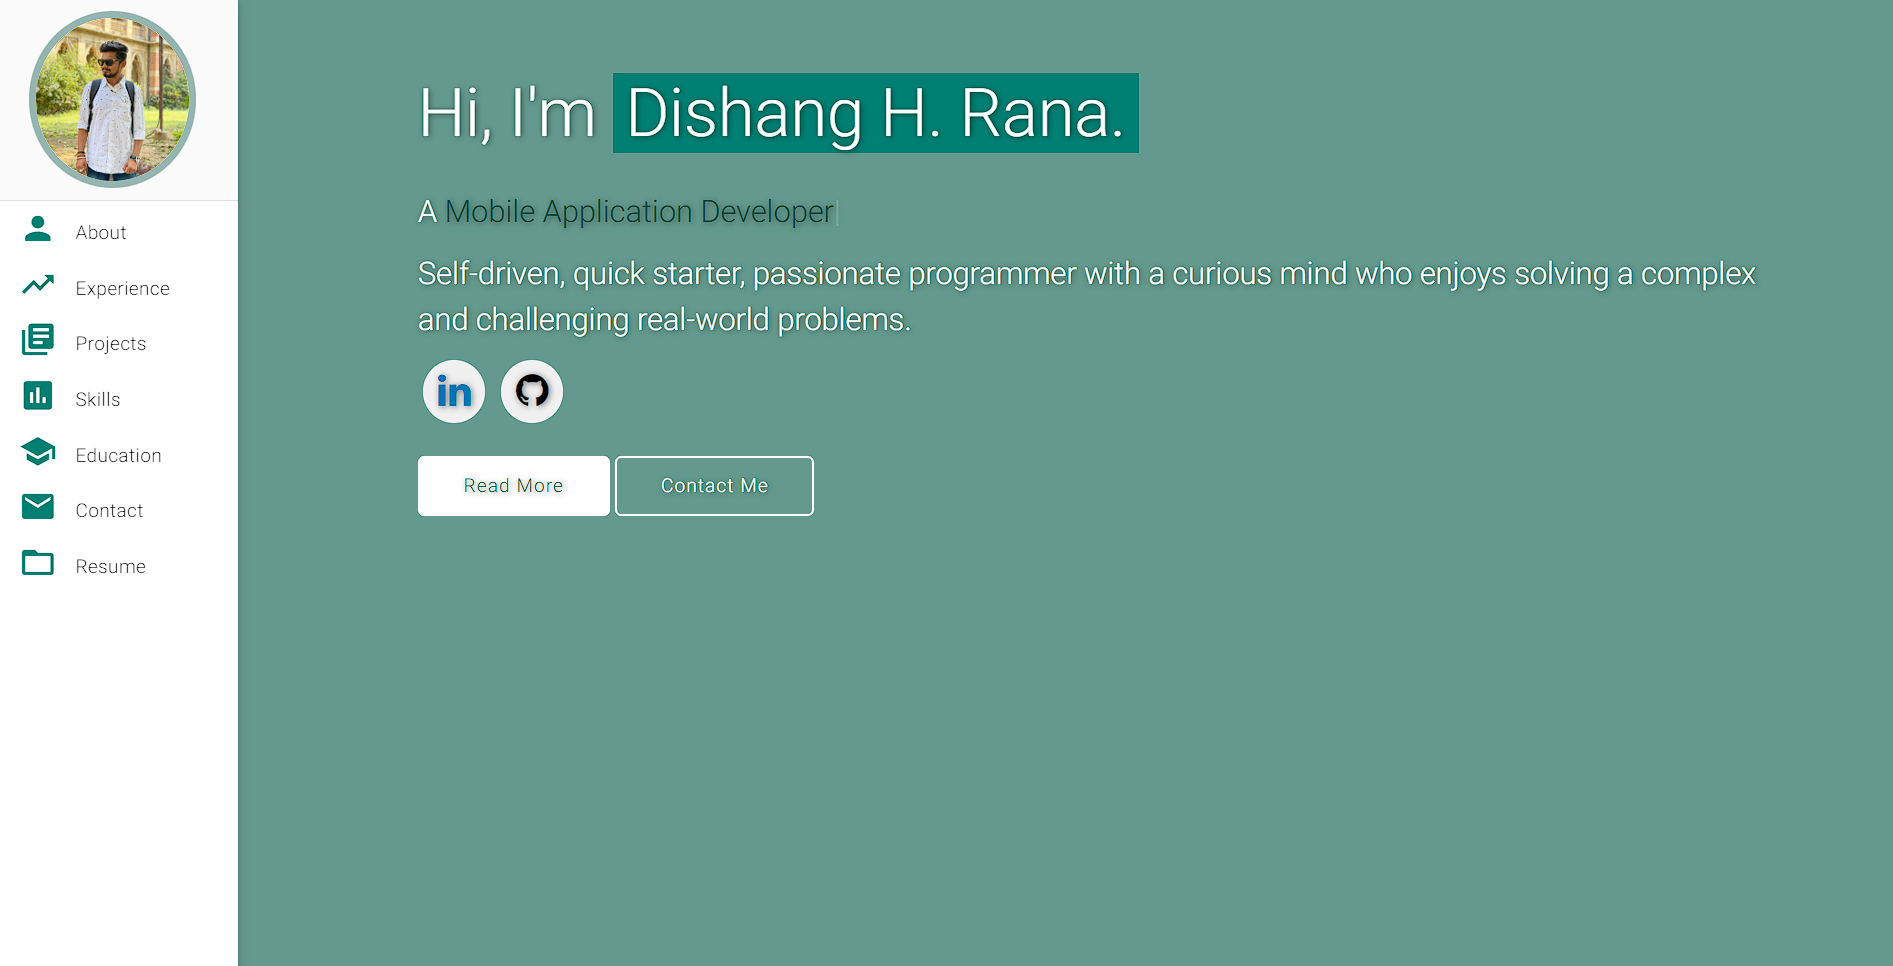
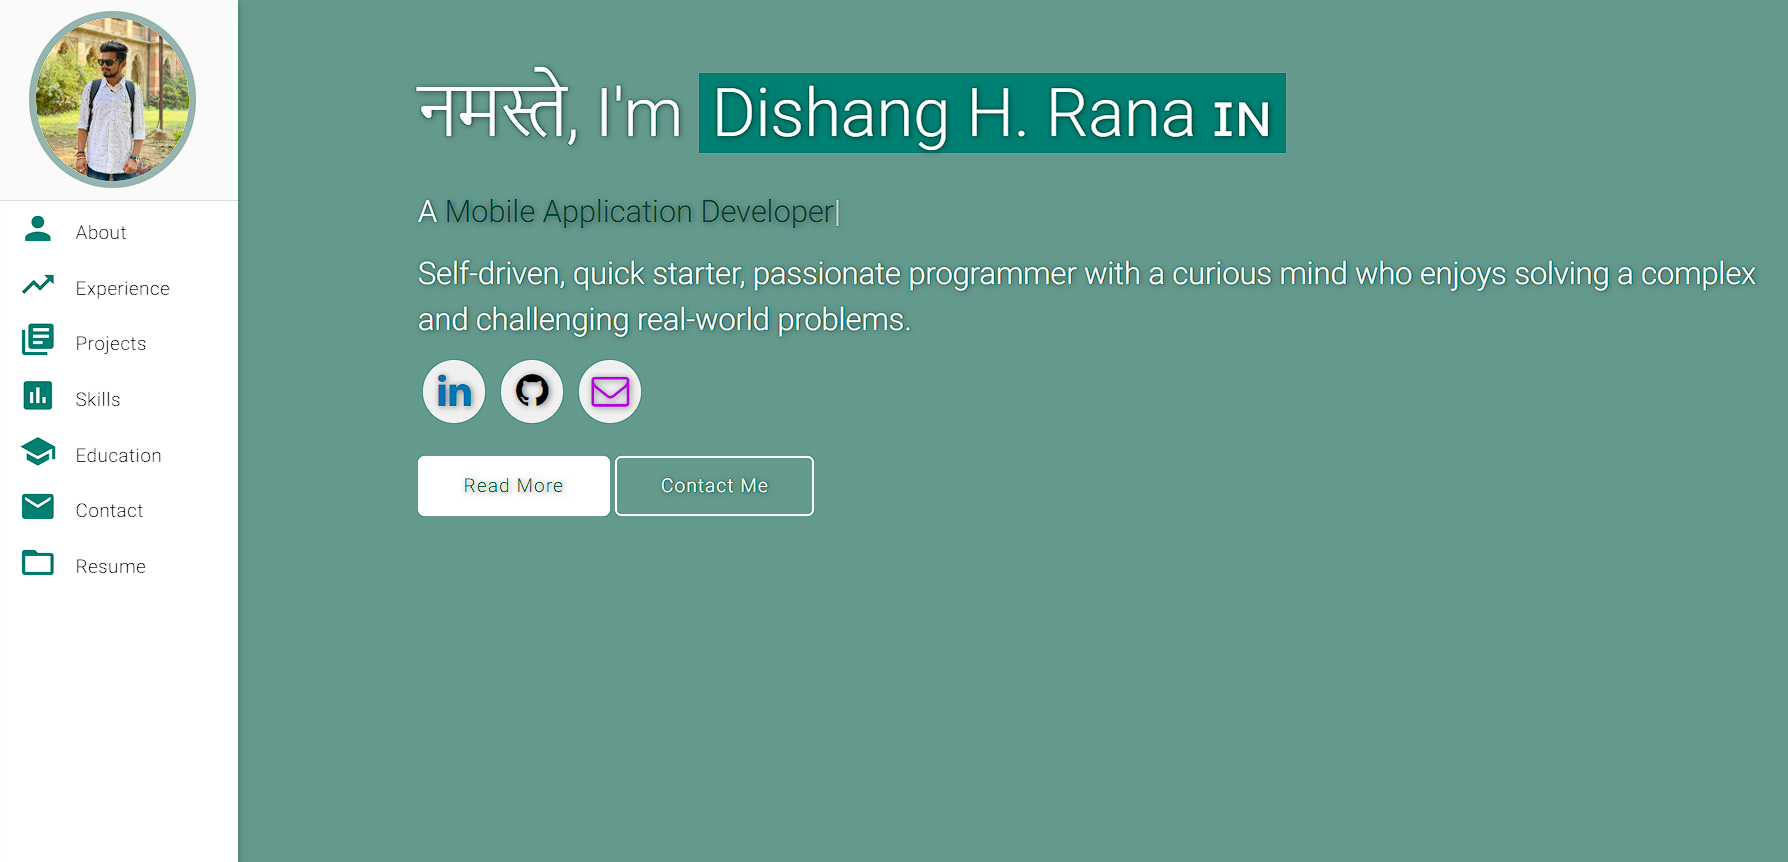
Change the css and change the bio in index.html

diff --git a/index.html b/index.html
@@ -196,11 +196,12 @@
         <div class="col-md-9">
           <div class="content section-padding valign" style="margin-left: 10%; margin-top: 50px;">
             <div class="caption">
-              <h2>नमस्ते, I'm <span class="teal">Dishang H. Rana 🇮🇳 </span></h2>
+              <h2>नमस्ते, I'm <span class="teal">Dishang H. Rana 🇮🇳</span></h2>
               <h5 style="color:#fff">A <span class="typing" style="font-weight: 300; color:#004d40"></span></h5>
               <!-- <h5 style="color:#00796b">A <span class="typing" style="font-weight: 300; color:#fff"></span></h5> -->
-              <h5>Self-driven, quick starter, passionate programmer with a curious mind who enjoys solving a complex and
-                challenging real-world problems.</h5>
+              <h5>A lifelong learner, fast starter, passionate programmer fluent in multiple languages, with a penchant
+                for problem-solving. Collaborative by nature, I enjoy working in agile teams, where ideas flow freely,
+                and innovation flourishes.</h5>
             </div>
 
             <div class="social">
@@ -236,14 +237,15 @@
       <div class="container flow-text">
 
         <p>
-          I am a Computer Science Student at The Maharaja Sayajirao University Of Baroda. I enjoy problem-solving and
-          coding. Always strive to bring 100% to the work I do.
+          I am a computer science student at Faculty of Technology and Engineering, The Maharaja Sayajirao University Of
+          Baroda, Vadodara. Always try to bring 100% to the work I do.
 
-          I have worked on technologies like Flutter, Dart, Java, Python, MySQL, Firebase, SQLite during my bachelor's
+          I have worked on technologies like Android,.NET technologies, Flutter Framework, Dart, Java, Python, C++,
+          MySQL, Firebase, SQLite during my bachelor's
           and master's.
 
-          I am passionate about developing complex applications that solve real-world problems impacting millions of
-          users.
+          Beyond lines of code, I'm an avid learner, always seeking new ways to expand my skills and contribute
+          meaningfully to projects that make a difference.
         </p>
         <p>
         <ul>
@@ -262,8 +264,8 @@
           Detail-oriented Software Developer with professional experience in Backend Development, Machine Learning, Computer Vision. I am adept in Python, Django, Flask, SQL, Machine Learning, Computer Vision.           
         </p> -->
         <p>
-          Looking for an opportunity to work in a challenging position combining my skills in Mobile Application
-          Developing, which provides professional development, interesting experiences and personal growth.
+          Looking for an opportunity to work in a challenging position combining my skills in IT Industry, which
+          provides professional development, interesting experiences and personal growth.
         </p>
 
       </div>
@@ -294,16 +296,19 @@
             <div class="role brown-text text-darken-2">Android Intern</div>
             <ul>
               <li>
-                Developed and manage ecommerce android application using java language.
+                Developed and manage E-Commerce android application using java language.
               </li>
               <li>
-                Know more about SQLite Database.
+                Use SQLite Database and know more about it.
               </li>
               <li>
-                Learned responsive user interface in app use third party library for it.
+                Know more about how to use payment gateway in app.
               </li>
               <li>
-                <b>Tools:</b> Android Studio, Gradle, Emulator, SQLite
+                Learned responsive UI in app and for it use third party library.
+              </li>
+              <li>
+                <b>Tools:</b> Android Studio, Gradle, Emulator, SQLite, Other library
               </li>
             </ul>
           </div>
@@ -678,7 +683,9 @@
                     <p>
                       <b>Degree: </b>Masters in Computer Application
                       <br>
-                      <b>CGPA: </b>7.99
+                      <b>Years Attended: </b>2023 - Present
+                      <br>
+                      <b>CGPA: </b>7.99 (FYMCA)
                     </p>
 
                   </div>
@@ -696,6 +703,8 @@
                     <p>
                       <b>Degree: </b>Bachelor of Computer Application
                       <br>
+                      <b>Years Attended: </b>2020 - 2023
+                      <br>
                       <b>CGPA: </b>8.87
                     </p>
                   </div>
@@ -712,9 +721,11 @@
                     </p>
                     <p class="brown-text">Surat, Gujarat, India</p>
                     <p>
-                      <b>Higher Secondary</b>
+                      <b>Higher Secondary: </b>Commerce
                       <br>
-                      <b>Percentage: </b>74.66%
+                      <b>Years Attended: </b>2018 - 2020
+                      <br>
+                      <b>Percentage: </b>79.76%
                     </p>
                   </div>
                 </div>

diff --git a/assets/css/style.css b/assets/css/style.css
@@ -60,7 +60,7 @@
 }
 
 .mail {
-  color: #b20be0;
+  color: #02b139;
 }
 
 .angellist {
